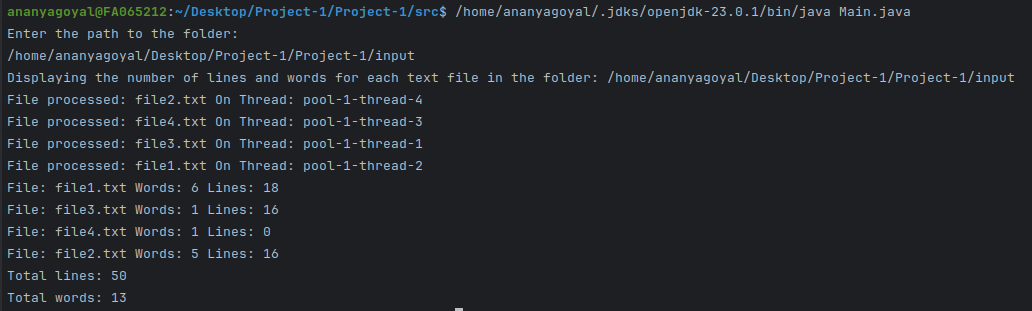
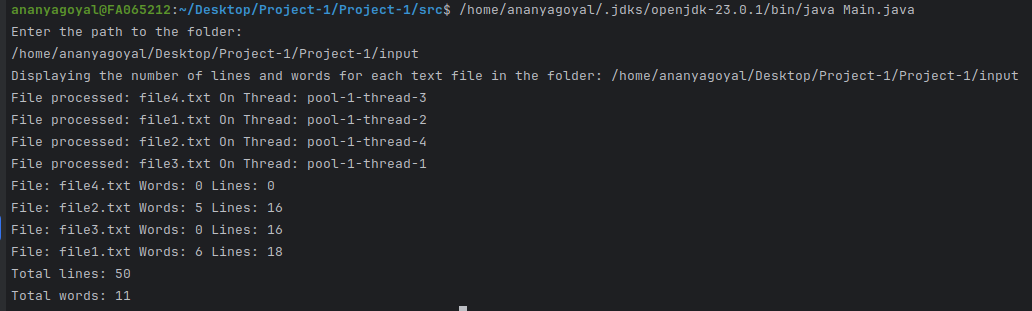
minor fix

diff --git a/Project-1/src/Main.java b/Project-1/src/Main.java
@@ -47,7 +47,11 @@ public class Main {
             data += "\n";
         }
         myReader.close();
+        if (data.trim().isEmpty()) {
+            return 0;
+        }
         return data.trim().split("\\s+").length;
+
     }
 
     static int countLines(File file) throws IOException {
